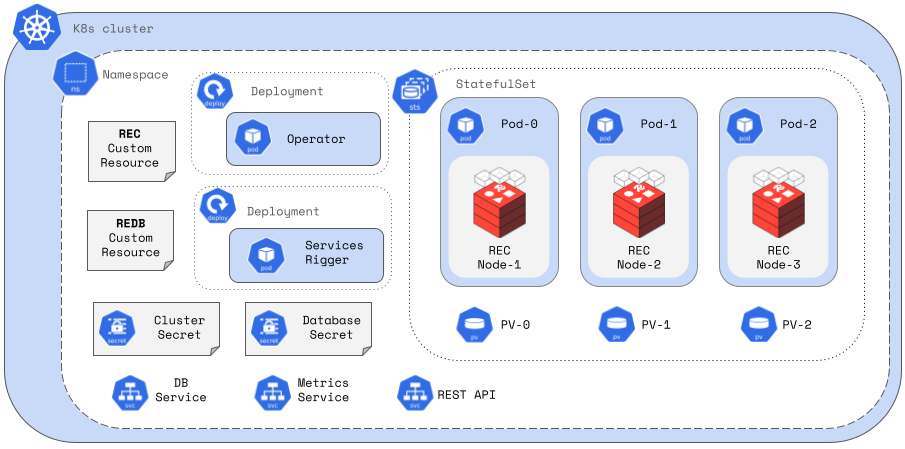
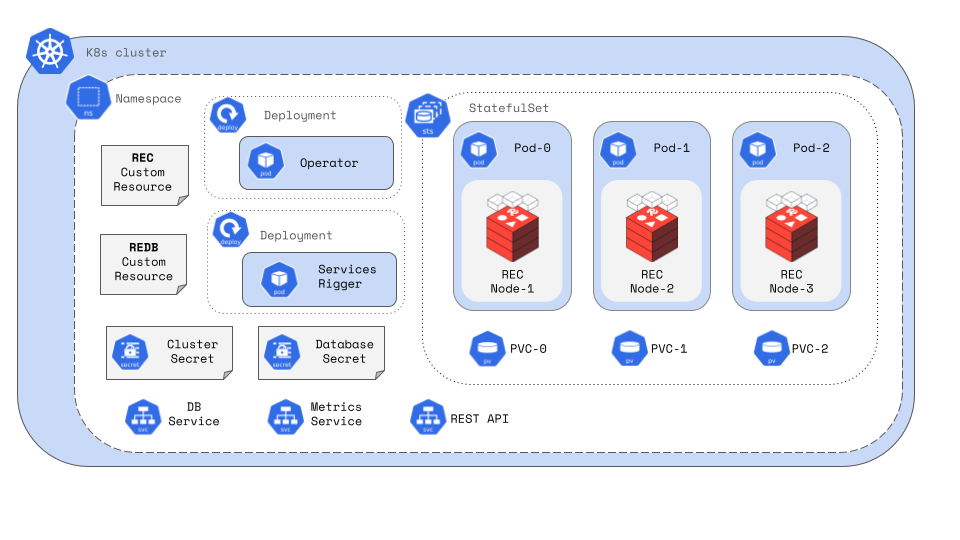
operator, ns, cr, crd

diff --git a/content/operate/kubernetes/architecture/_index.md b/content/operate/kubernetes/architecture/_index.md
@@ -11,22 +11,57 @@ linkTitle: Architecture
 weight: 1
 ---
 
-Redis Enterprise gives you redis's speed at scale with added durability.
-Kubernetes (K8s) is flexible, scalable, and automates management while reducing overhead. Redis Enterprise for Kubernetes lets you manage your Redis clusters and databases with declarative configuration files, and lets you use the advantages of Kubernetes to manage your resources. Redis Enterprise for Kubernetes uses a custom operator and custom controllers to bring the best of Redis Enterprise to Kubernetes platforms.
+Redis Enterprise for Kubernetes gives you the speed and durability of [Redis Enterprise](https://redis.io/redis-enterprise/advantages/), along with the flexibility and ease of use Kubernetes (K8s) provides. Redis Enterprise for Kubernetes uses a custom operator and custom controllers to bring the best of Redis Enterprise to Kubernetes platforms.
 
-Redis Enterprise for Kubernetes provides custom resource definitions (CRDs) that allows you to to create custom resources to manage your clusters and databases. The RedisEnterpriseCluster (REC) resource creates and manages a Redis Enterprise cluster within the same namespace. The RedisEnterpriseDatabase (REDB) resource creates and manages your Redis Enterprise database.
+The image below illustrates the components of a single-namespace deployment.
 
-overview diagram
+{{< image filename="/images/k8s/k8s-arch-v4.png" >}}
 
-Declarative configuration management... configuration YAML files - https://kubernetes.io/docs/tasks/manage-kubernetes-objects/declarative-config/
-Automated upgrades, creation, scaling, declare state you want and K8s manages details
-where is my database ... just like RS multiple databases are hosted by a redis node, just happens to be within a pod
-db diagram
-Once its up, it's just RS except...
-Credentials management - secrets
-Storage - k8s way - network attached
-Active-active
-multi-namespace
-flexible deployment
-more information?
-https://redis.io/redis-enterprise/advantages/
+## Operator
+
+An operator is a custom extension of the Kubernetes API used to manage complex, stateful processes and resources. The operator uses controllers to manage Redis Enterprise's custom resources (CR).
+
+## Namespace
+
+The Redis Enterprise operator is deployed into a namespace. Only one operator and one RedisEnterpriseCluster can reside in each namespace. Namespaces create a logical separation between resources. Several of the resources used in your deployment are limited to a namespace, while others are cluster-wide.
+
+Redis Enterprise for Kubernetes supports multi-namespace deployment options. Databases residing in one namespace, can be monitored and managed by an operator.
+
+## Custom resources
+
+Custom resources extend the Kubernetes API to allow Redis users to manage their databases the Kubernetes way. Custom resources are created and managed with YAML configuration files.
+
+This [declarative configuration method](https://kubernetes.io/docs/tasks/manage-kubernetes-objects/declarative-config/) lets you define a desired state for your resources, and the operator will make changes to reach that state. This simplifies installing, updating, and scaling (both horizontally and vertically).
+
+The operator continually monitors custom resources for changes, and acts to reconcile differences between your declared desired state and the actual state of your resources.
+
+## Custom resource definitions
+
+A cluster-wide resource called a custom resource defintion (CRD) specifies which settings are configurable via a custom resource configuration file. Any setting not defined by the CRD is not managed by the operator. Changes to these settings can be made just as they are in Redis Enterprise Software.
+
+Settings that are managed by the operator will be overwritten if changed by a method besides the custom resource YAML files. Be aware that changes made in the management UI will be overwritten by the operator if that setting is defined by the CRD.
+
+## RedisEnterpriseCluster REC
+
+## RedisEnterpriseDatabase REDB
+
+{{< image filename="/images/k8s/k8s-node-arch.png">}}
+
+## Active-Active databases
+
+### RedisEnterpriseRemoteCluster RERC
+
+### RedisEnterpriseActiveActiveDatabase REAADB
+
+## Services Rigger
+
+## Security
+
+secrets
+
+## Storage
+
+PVCs, network attached
+
+## Metrics
+
